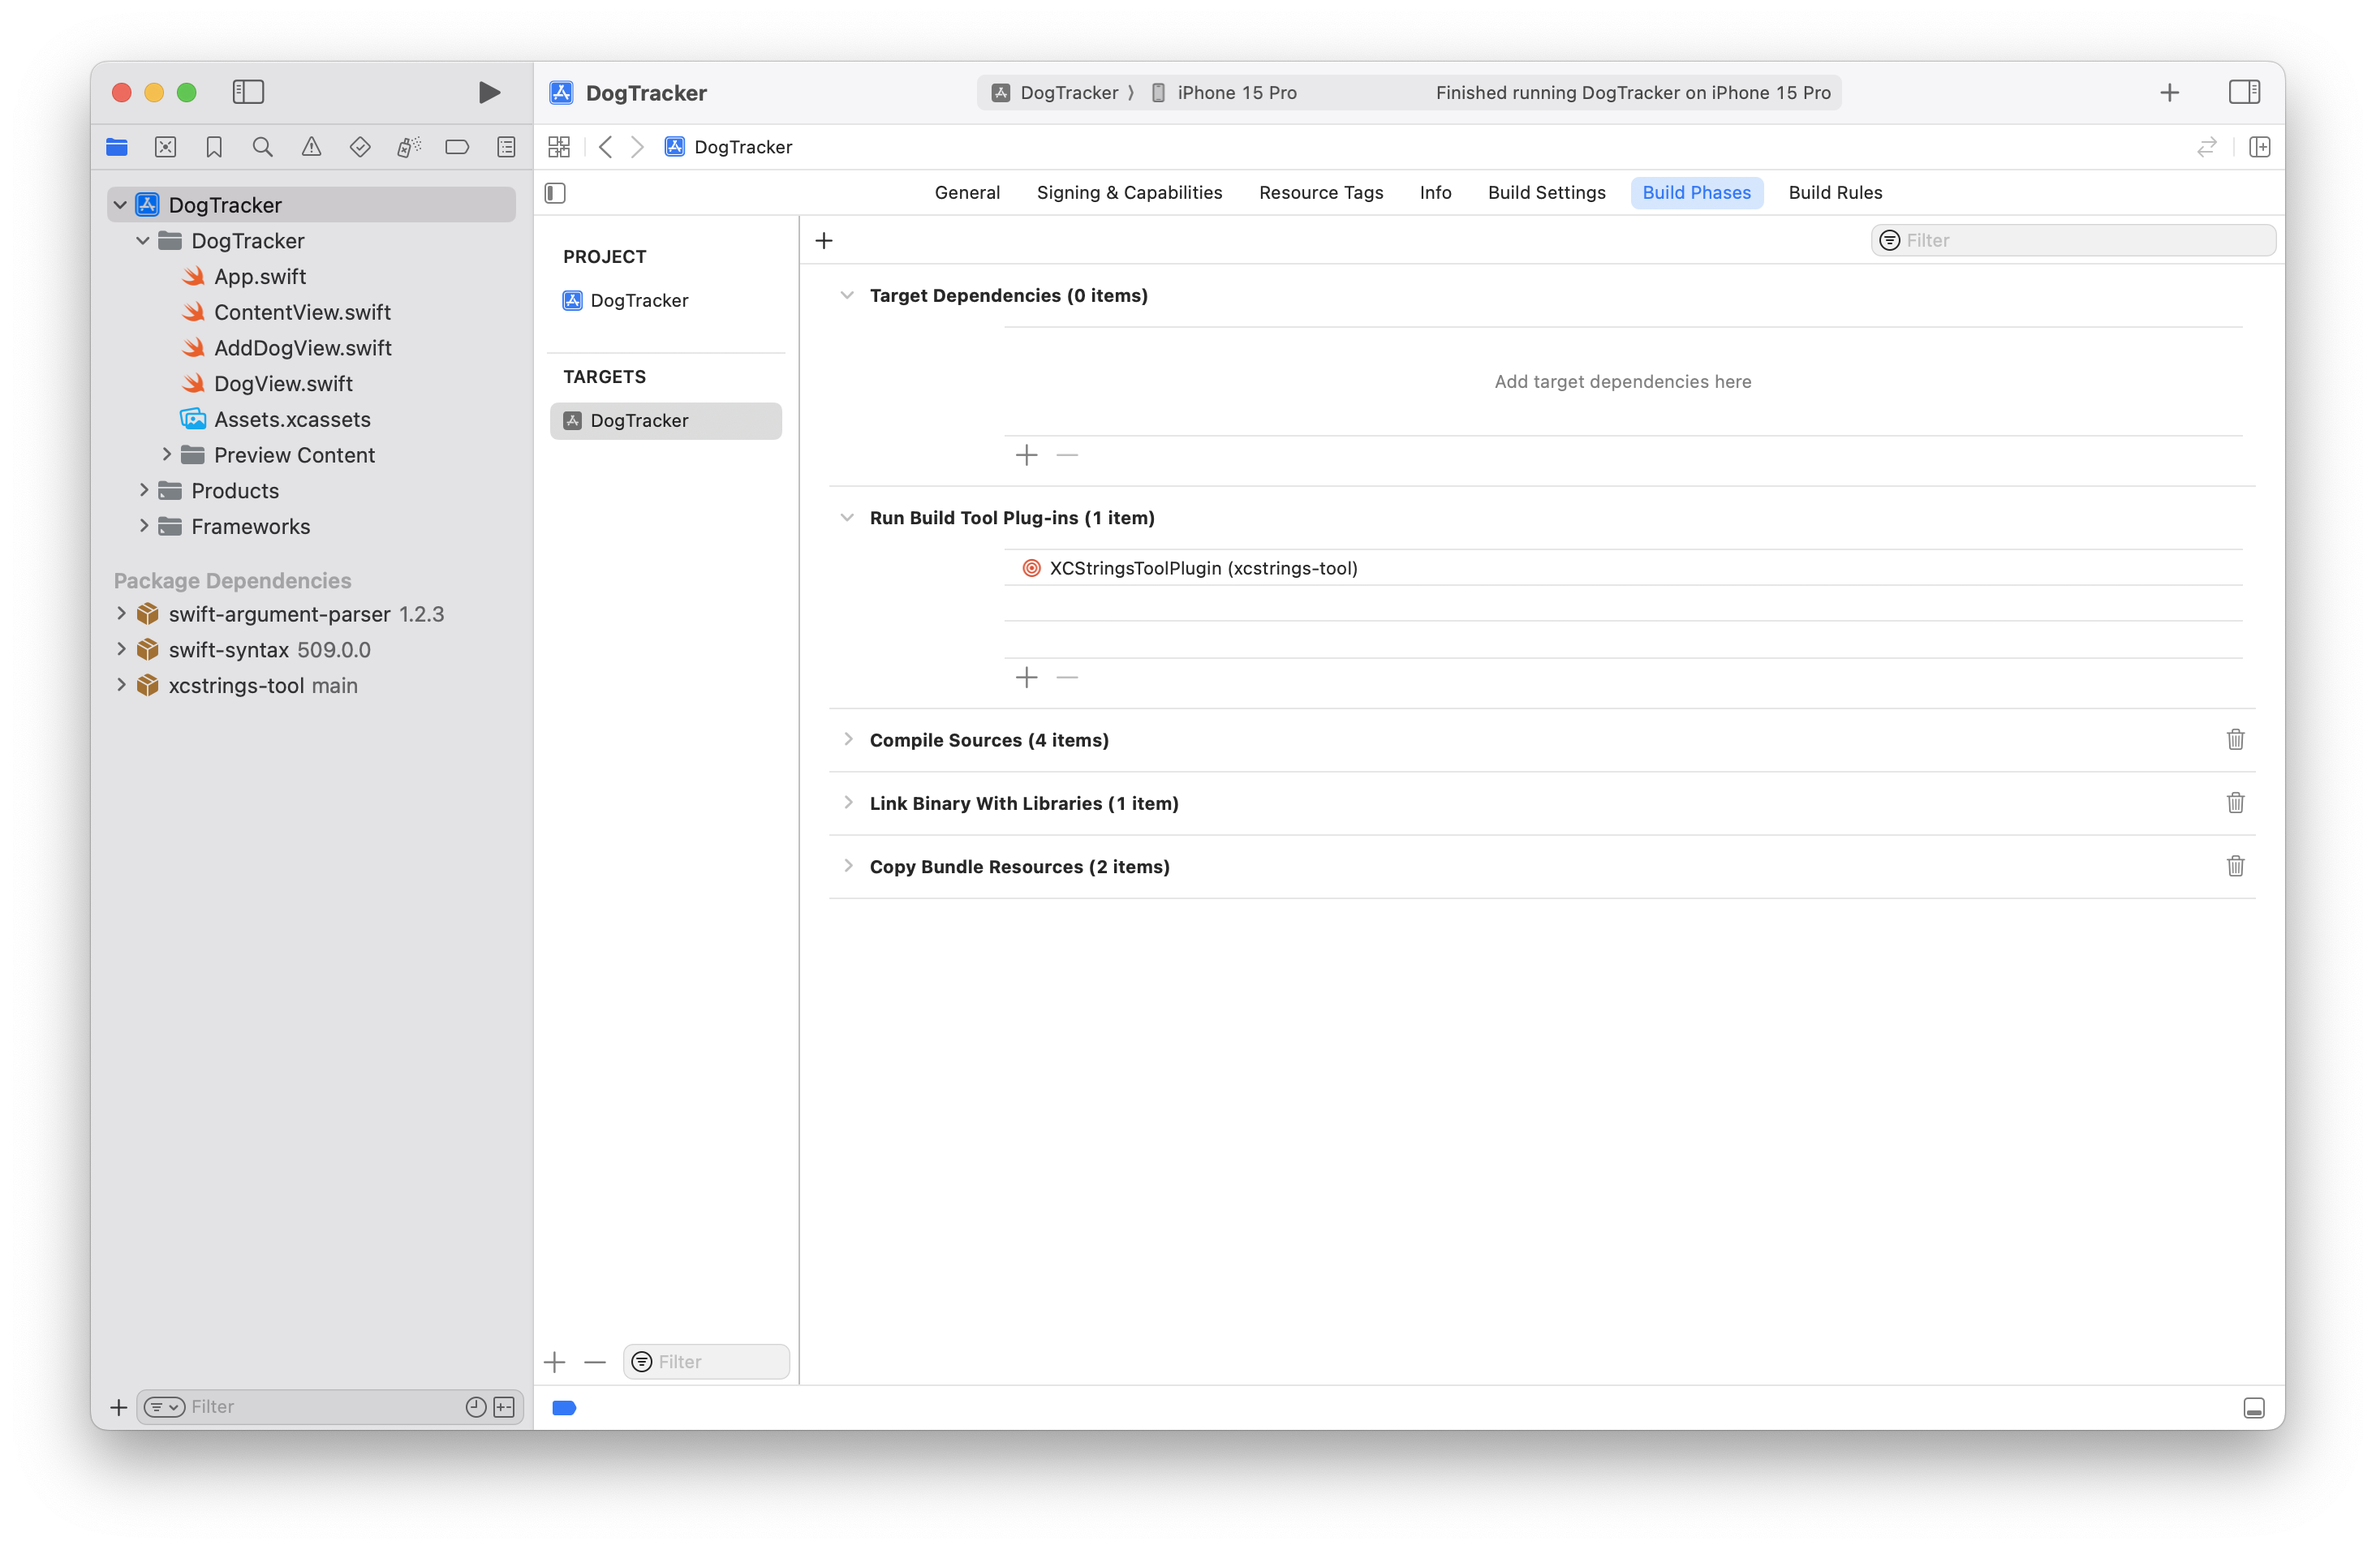
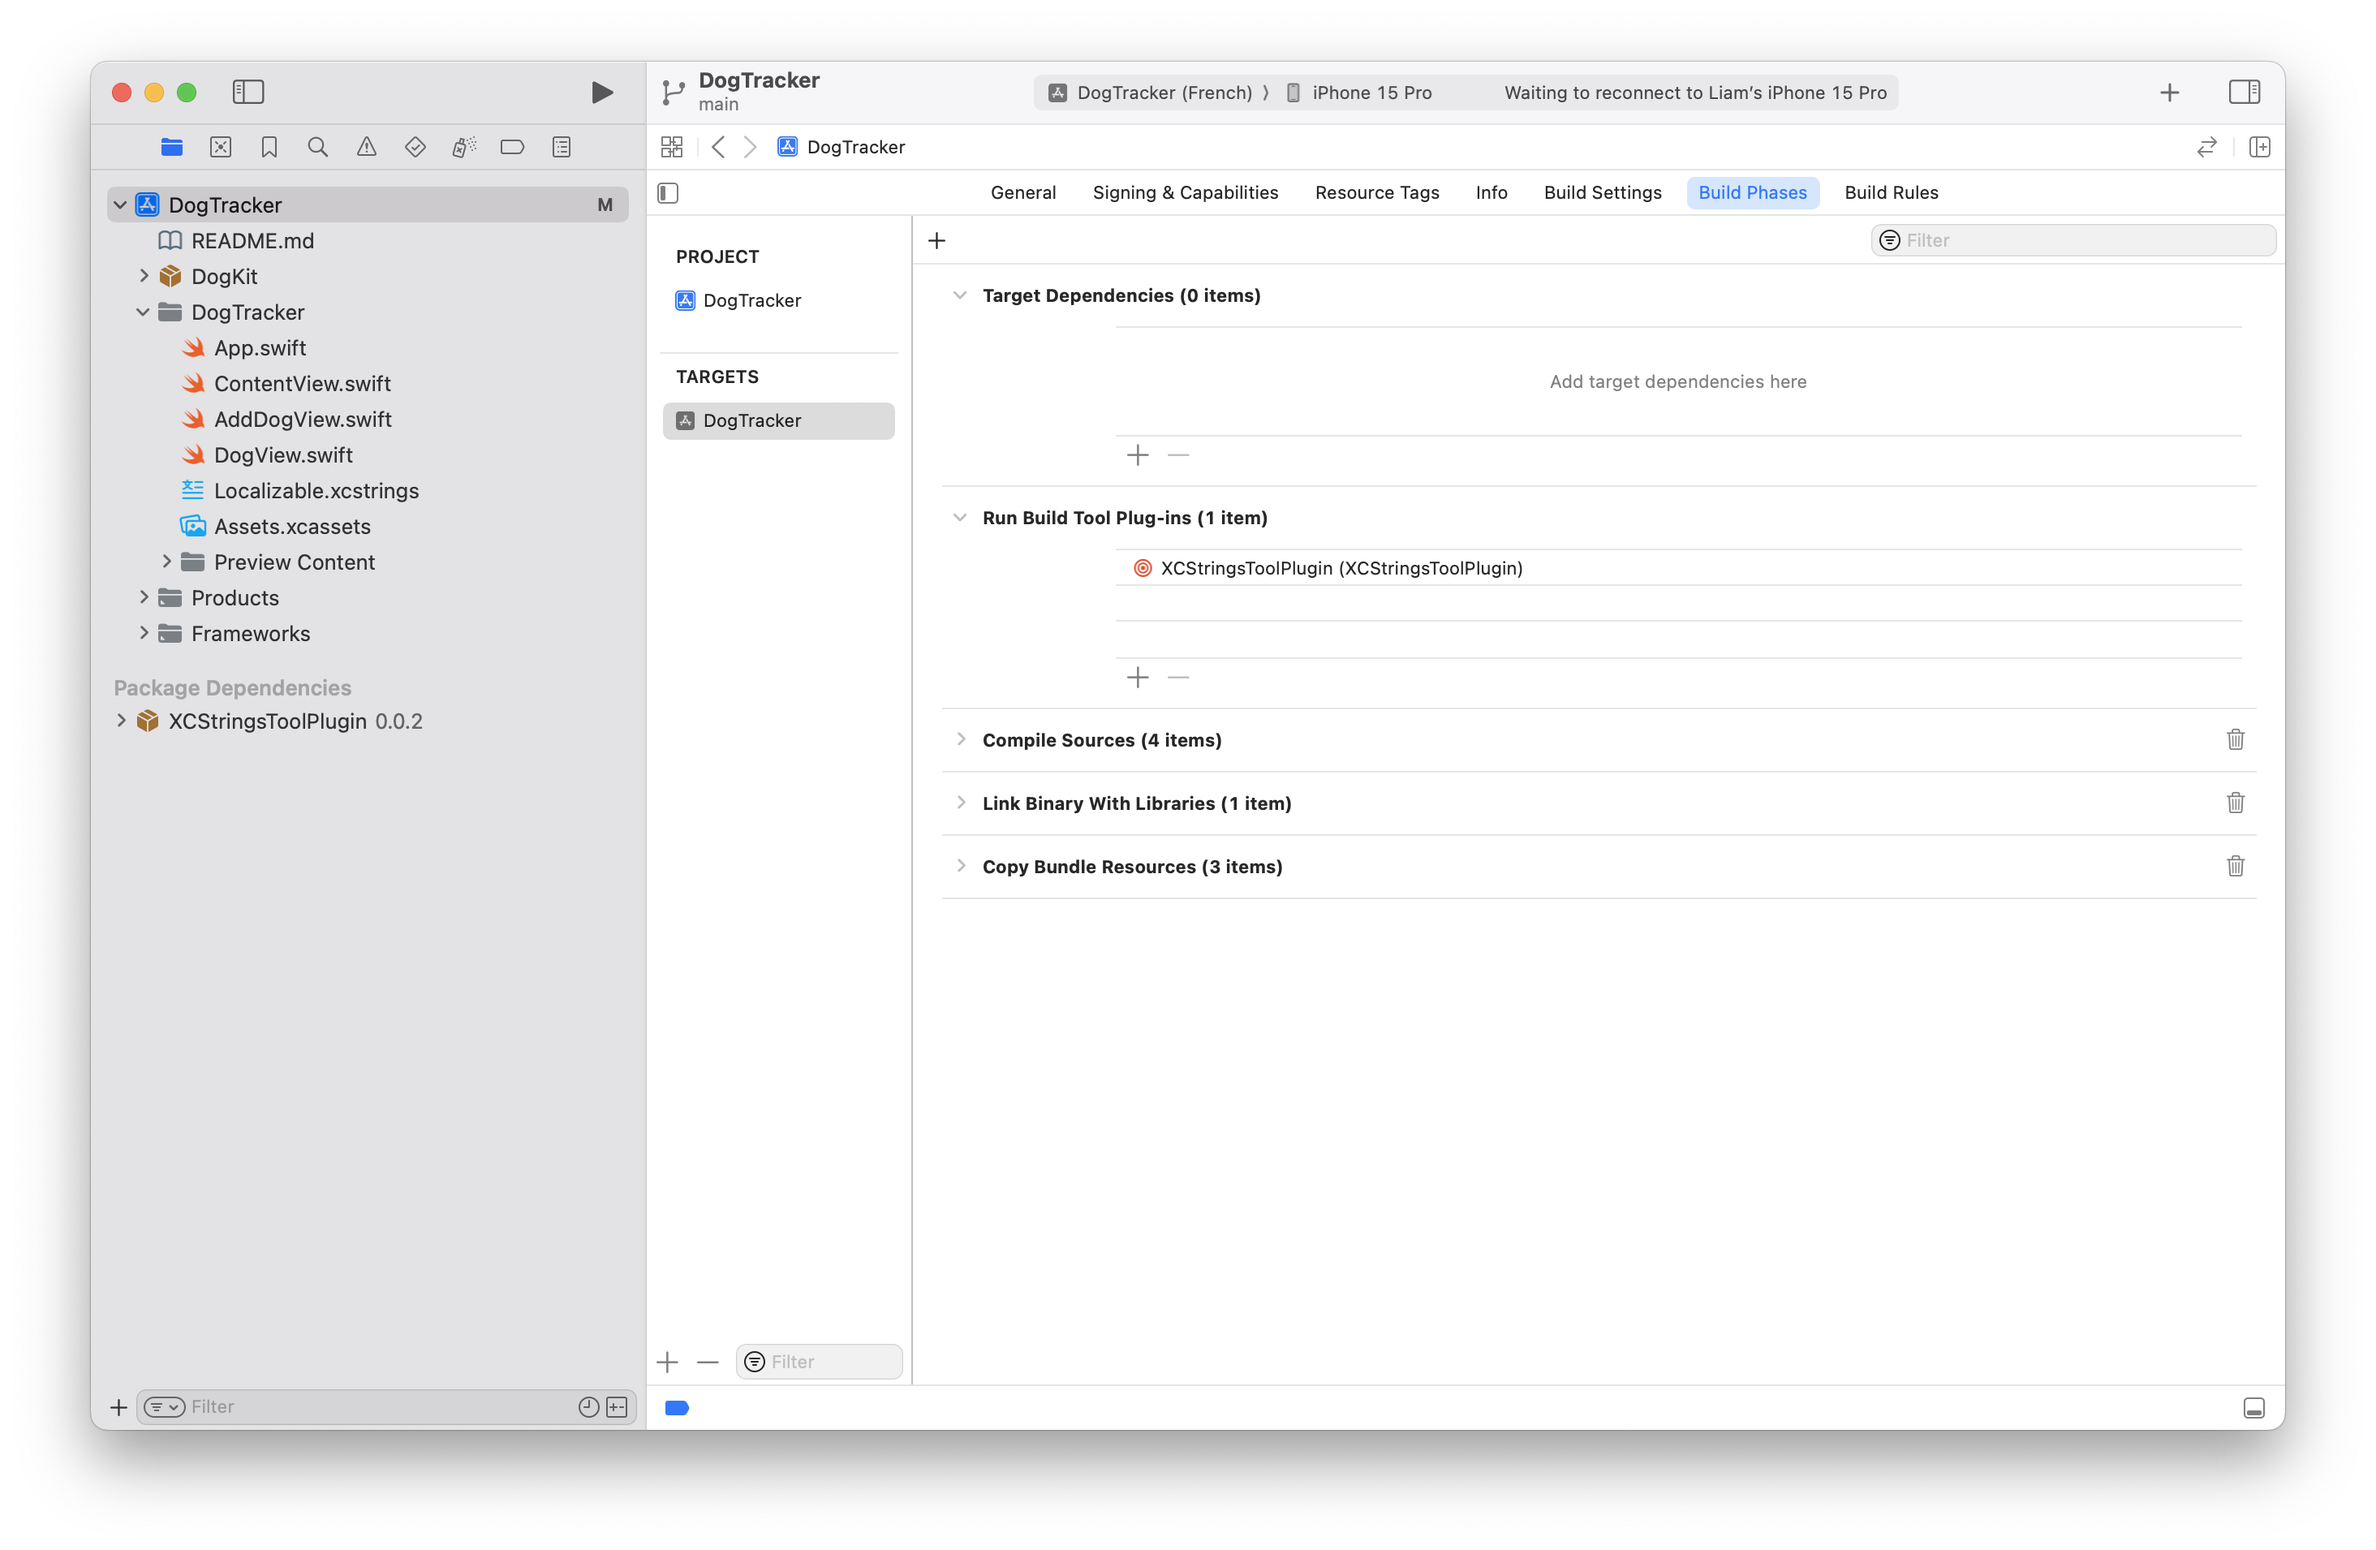
Update documentation to use xcstrings-tool-plugin

diff --git a/Sources/Documentation/XCStringsToolPlugin.docc/Integrating XCStrings Tool into an Xcode Project Target.md b/Sources/Documentation/XCStringsToolPlugin.docc/Integrating XCStrings Tool into an Xcode Project Target.md
@@ -12,15 +12,11 @@ If you haven't already, open up an Xcode project which contains the Strings Cata
 
 Before integrating with any targets, you need to add the XCStrings Tool package dependency to your project.
 
-In Xcode, click **File** → **Add Package Dependencies…** and in the search box, type **github.com/liamnichols/xcstrings-tool**
+In Xcode, click **File** → **Add Package Dependencies…** and in the search box, type **github.com/liamnichols/xcstrings-tool-plugin**
 
 ![A screenshot of the Xcode "Add Package" window after searching for the xcstrings-tool dependency](Xcode-AddPackage)
 
-Select the **xcstrings-tool** package from the list of results, ensure that **Add to Project** is correctly set to your project and click **Add Package**.
-
-When promoted, ensure that the **XCStringsTool** product _is not added_ to your target by changing **Add to Target** to **None**:
-
-![A screenshot of the Xcode "Choose Package Products" window after removing the XCStringsTool executable from any targets](Xcode-ChooseProducts)
+Select the **xcstrings-tool-plugin** package from the list of results, ensure that **Add to Project** is correctly set to your project and click **Add Package**.
 
 Click **Add Package** again and the dependency will be imported into your project.
 

diff --git a/Sources/Documentation/XCStringsToolPlugin.docc/Integrating XCStrings Tool into a Swift Package Target.md b/Sources/Documentation/XCStringsToolPlugin.docc/Integrating XCStrings Tool into a Swift Package Target.md
@@ -35,7 +35,7 @@ let package = Package(
     ],
     dependencies: [
         // 1. Add the xcstrings-tool Package dependency
-        .package(url: "https://github.com/liamnichols/xcstrings-tool.git", from: "0.0.1")
+        .package(url: "https://github.com/liamnichols/xcstrings-tool-package.git", from: "0.1.0")
     ],
     targets: [
         .target(
